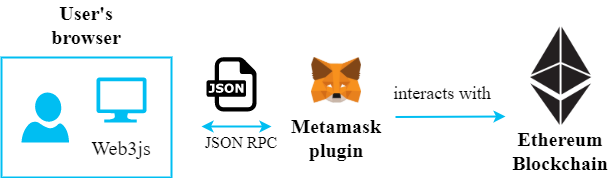
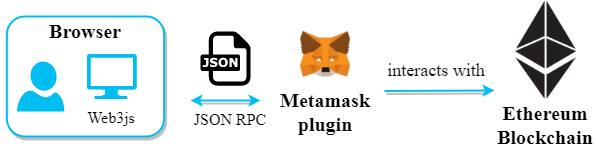
update figure and add figure in each chapter

diff --git a/chapters/02 background.tex b/chapters/02 background.tex
@@ -5,7 +5,7 @@
 
 \newpage
 \section{MetaMask}
-MetaMask is the most popular crypto wallet for accessing Ethereum distributed application (DApp), this extension can enable web3 API in website so that users can interact with any Etehereum blockchain from Javascript~\cite{web3.js}, e.g., Mainnet, Testnet. It also creates identities by the user themself. The user of Metamask can create and manage their identities; moreover, Metamask provides an interface that user can perform a transaction to the connected blockchain.\par
+MetaMask is the most popular crypto wallet for accessing Ethereum distributed application (DApp), this tool can enable web3 API in website so that users can interact with various Etehereum blockchain from Javascript~\cite{web3.js}, e.g., Mainnet, Testnet. It also creates identities by the user themself. The user of Metamask can create and manage their identities; moreover, Metamask provides an interface that user can perform a transaction to the connected blockchain.\par
 Because the user securely  manages owned Ethereum account through MetaMask, the user can use their private key to sign a transaction or sign data to prove ownership of an account. Using this crypto wallet, the developers of decentralized applications can use their web3.js library to interact with MetaMask without maintaining Ethereum account of users and they can focus on designing and implementing functionality of smart contracts.\par
 Regarding the architecture of Dapp, Figure~\ref{fig:architecture_of_dapp} shows that the web3.js libraries can enable user's browser to interact with blockchain so that users can read and write data from smart contracts, send transactions between accounts. 
 
@@ -16,8 +16,9 @@ Regarding the architecture of Dapp, Figure~\ref{fig:architecture_of_dapp} shows 
     \label{fig:architecture_of_dapp}
 \end{figure}
 
-\section{ECDSA}
 \newpage
+\section{ECDSA}
+Elliptic Curve Digital Signature Algorithm (ECDSA) is used to create a digital signature of data and verify its authenticity without revealing personal information. ECDSA does not encrypt the data, it makes sure that the data was not tampered with.
 \section{OAuth}
 
 \section{Trust Service Provider (TSP)}

diff --git a/chapters/03 system_design.tex b/chapters/03 system_design.tex
@@ -1,7 +1,14 @@
 \chapter{System Design}
 \label{chapter:design}
 
-Here is the design.
+\section{Overview}
+
+\begin{figure}[hb]
+    \centering
+    \includegraphics[height=!,width=1\linewidth,keepaspectratio=true]{figures/system_architecture.png}
+    \caption{{\footnotesize System Architecture}}
+    \label{fig:system_architecture}
+\end{figure}
 
 \section{Scenario}
 
@@ -11,13 +18,6 @@ Here is the design.
 
 \begin{itemize}
     \item Verify unique ID stage~\cite{nctuurl}
-    \item Binding account stage Figure~\ref{fig:nctu_logo}
+    \item Binding account stage
     \item Third party login stage
 \end{itemize}
-
-\begin{figure}
-    \centering
-    \includegraphics[height=!,width=0.4\linewidth,keepaspectratio=true]{figures/nctu_logo.jpg}
-    \caption{{\footnotesize Test figure}}
-    \label{fig:nctu_logo}
-\end{figure}

diff --git a/chapters/04 implementation.tex b/chapters/04 implementation.tex
@@ -1,6 +1,13 @@
 \chapter{Implementation} 
 \label{chapter:implementation}
-This chapter describes the implementation of Ethereum blockchain smart contracts, and defines relationshup between user and organization.
+This chapter describes the implementation of Ethereum blockchain smart contracts and defines relationships between users and organizations.
+\begin{figure}[hb]
+    \centering
+    \includegraphics[height=!,width=1\linewidth,keepaspectratio=true]{figures/smart_contract_diagram.png}
+    \caption{{\footnotesize Smart Contract Diagram}}
+    \label{fig:smart_contract_diagram}
+\end{figure}
+
 \section{User Manager}
 manage identity
 \section{Organization Manager}
